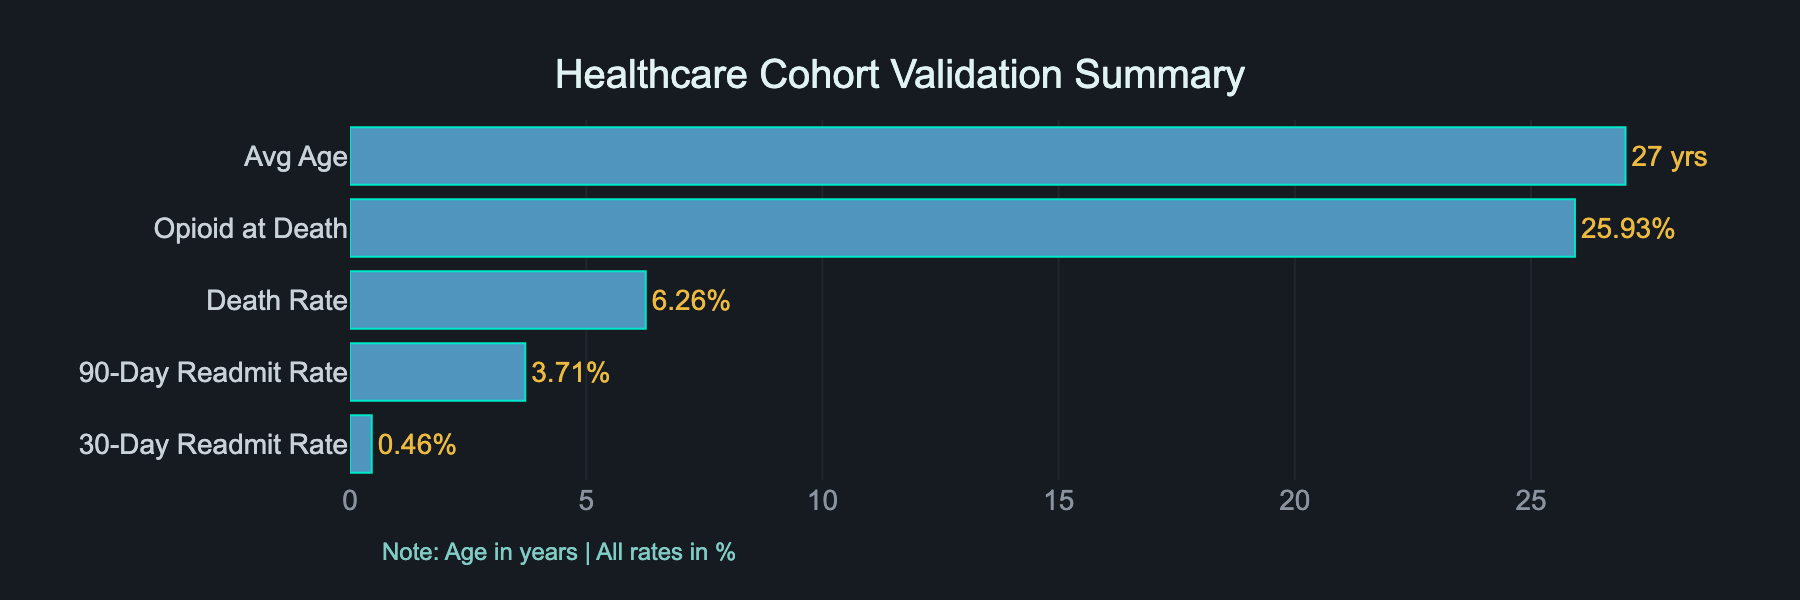
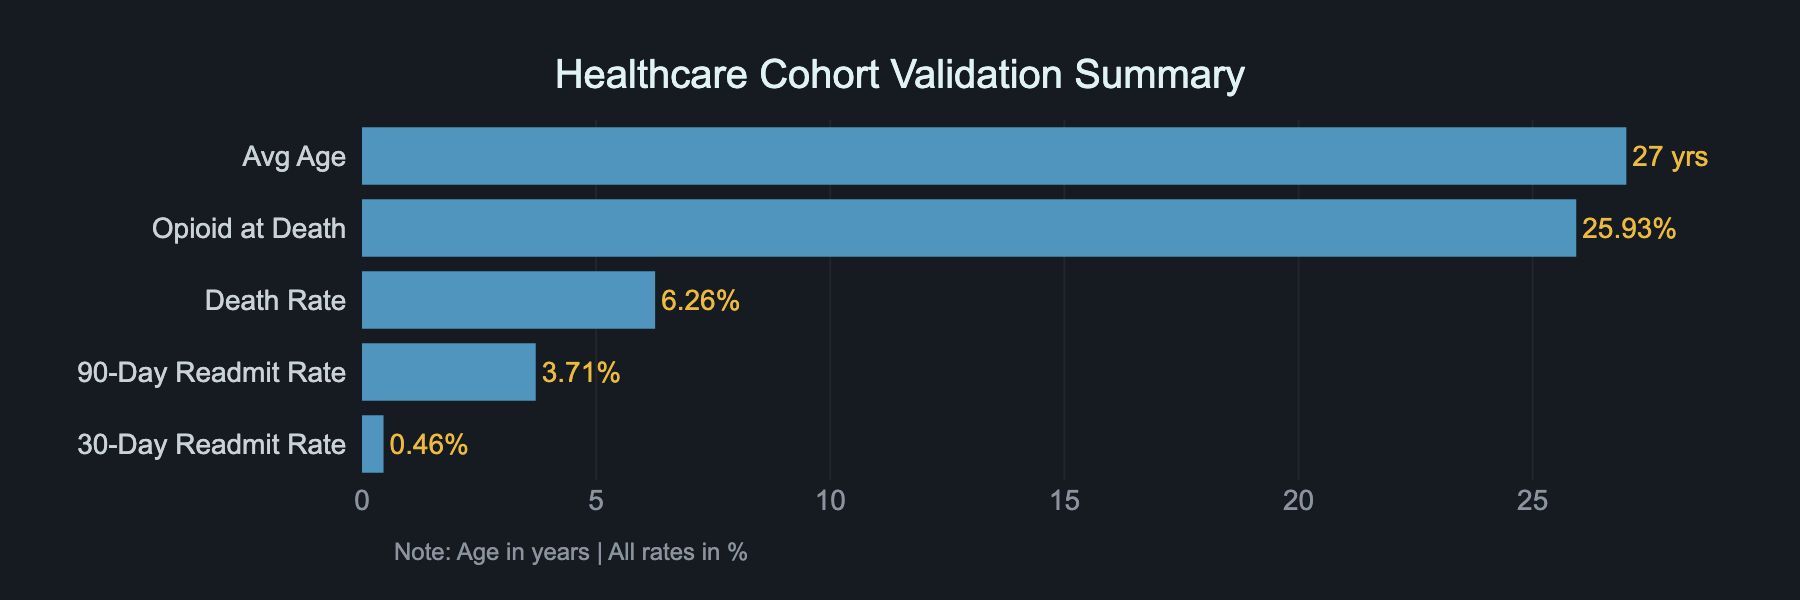
style: update cohort validation chart styling
- Revert to simpler Markdown image (removed HTML/CSS wrapper)
- Adjust chart colors and style to better match GitHub dark mode and also appear legible in light mode
- Fine-tune padding and spacing between y-axis labels and bars

diff --git a/README.md b/README.md
@@ -8,11 +8,7 @@
 <div align="center">
   <img
     src="assets/images/healthcare-cohort-validation-summary.png"
-    alt="Healthcare Cohort Validation Summary"
-    style="border: 1px solid #707070;
-           border-radius: 10px;
-           background-color: #161B22;
-           padding: 8px;">
+    alt="Healthcare Cohort Validation Summary">
 </div>
 
 ## Table of Contents
